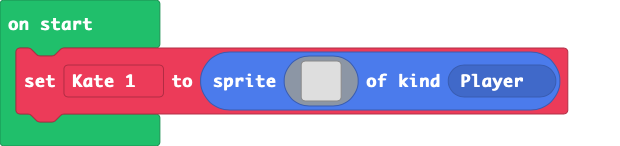
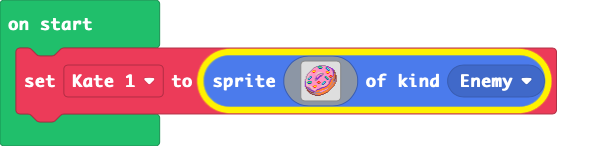
Update main.blocks, main.ts

diff --git a/main.ts b/main.ts
@@ -31,4 +31,4 @@ let Kate_1 = sprites.create(img`
     .......eeebbb444eee.............
     ..........eeeeee................
     ................................
-    `, SpriteKind.Player)
+    `, SpriteKind.Enemy)
